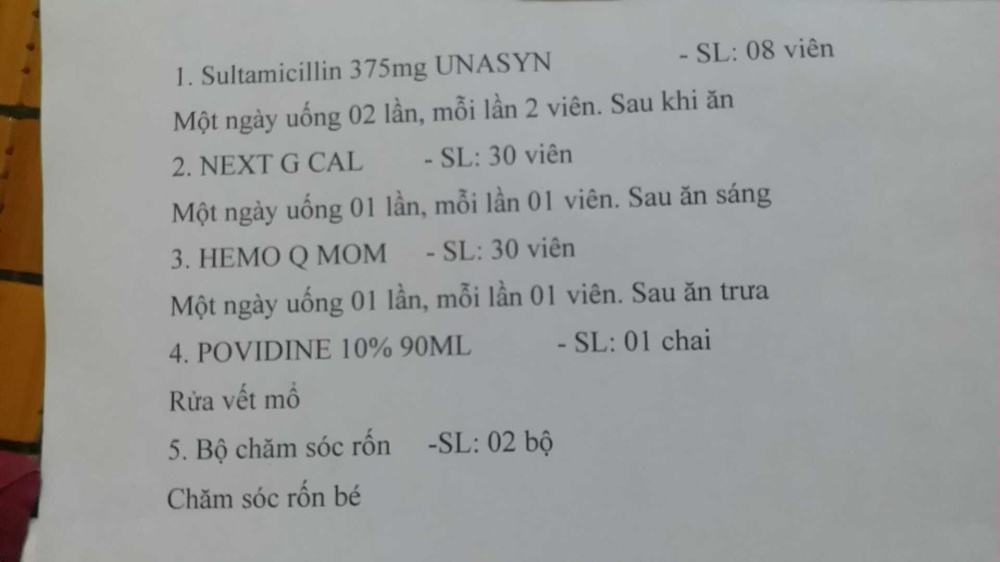
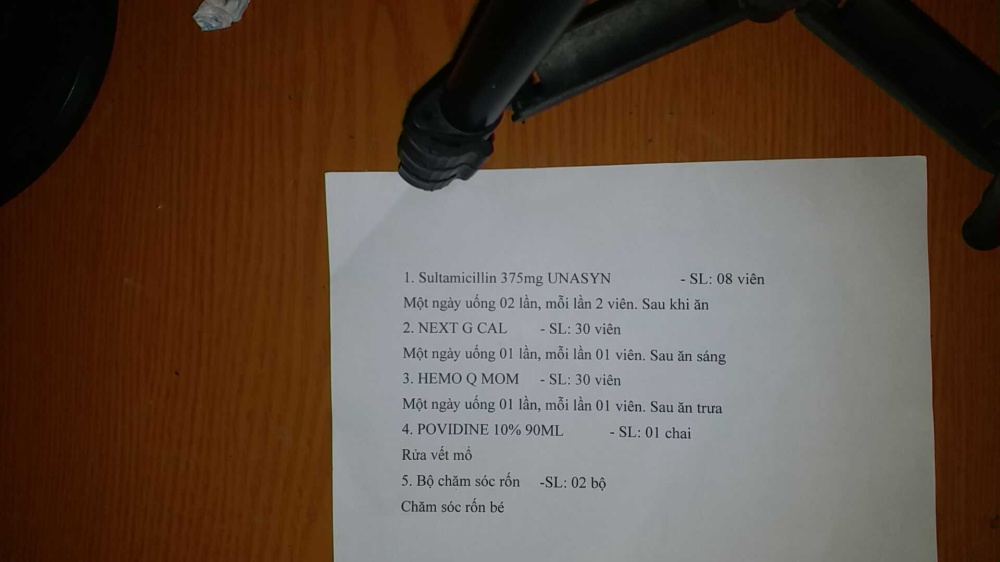
update

diff --git a/ocr.py b/ocr.py
@@ -4,6 +4,10 @@ import pytesseract
 from text_to_speech import *
 from speech_to_text import *
 from similary import *
+import requests
+import cv2
+import numpy as np
+import imutils
 import re 
 
 corr_dict ={
@@ -23,31 +27,56 @@ type_dict = {
     "thuốc đau bụng":["Berberin"],
     "thuốc ho": ["Methorphan", "Prospan"]
 }
-def scan():
-    img = cv2.imread("./test.jpg")
 
-    # img = cv2.resize(img, (640, 360))
-    img = cv2.cvtColor(img, cv2.COLOR_BGR2RGB)
+def scan():
+    url = "http://192.168.1.6:8080/shot.jpg"
+  
+# While loop to continuously fetching data from the Url
+    while True:
+        img_resp = requests.get(url)
+        img_arr = np.array(bytearray(img_resp.content), dtype=np.uint8)
+        img = cv2.imdecode(img_arr, -1)
+        img = imutils.resize(img, width=1000, height=1800)
+        cv2.imshow("Android_cam", img)
+        cv2.imwrite("test.jpg", img)
+        img = cv2.cvtColor(img, cv2.COLOR_BGR2RGB)
     # print(pytesseract.image_to_string(img))
         
-    cong = r'--oem 3 --psm 6 outputbase digits'
-    x = pytesseract.image_to_string(img, config = cong, lang = 'vie')
-    y = x.split("\n")
-    # print(y)
-    # print(corr_dict[y[1]])
-    cv2.imshow("aa", img)
-    cv2.waitKey()
+        cong = r'--oem 3 --psm 6 outputbase digits'
+        x = pytesseract.image_to_string(img, config = cong, lang = 'vie')
+        y = x.split("\n")
+        # Press Esc key to exit
+        if cv2.waitKey(1) == 27:
+            # return y
+            break
+    
+    cv2.destroyAllWindows()
+
+
+    # img = cv2.imread("./test.jpg")
+
+    # # img = cv2.resize(img, (640, 360))
+    # img = cv2.cvtColor(img, cv2.COLOR_BGR2RGB)
+    # # print(pytesseract.image_to_string(img))
+        
+    # cong = r'--oem 3 --psm 6 outputbase digits'
+    # x = pytesseract.image_to_string(img, config = cong, lang = 'vie')
+    # y = x.split("\n")
+    # # print(y)
+    # # print(corr_dict[y[1]])
+    # cv2.imshow("aa", img)
+    # cv2.waitKey()
     return y
 
 
-# text_to_speech("chào mừng bạn đến với cửa hàng chúng tôi")
-# text_to_speech("mời bạn chọn 1, 2 hoặc 3")
-# text_to_speech("1, nhập đơn thuốc thừ bàn phím")
-# text_to_speech("2, đưa đơn thuốc lên camera để scan")
-# text_to_speech("3, mời nói tên loại thuốc muốn mua")
-# print("1-----nhập đơn thuốc từ bàn phím")
-# print("2----- đưa đơn thuốc lên cam để scan")
-# print("3--------mời nói tên loại thuốc muốn mua")
+text_to_speech("chào mừng bạn đến với cửa hàng chúng tôi")
+text_to_speech("mời bạn chọn 1, 2 hoặc 3")
+text_to_speech("1, nhập đơn thuốc thừ bàn phím")
+text_to_speech("2, đưa đơn thuốc lên camera để scan")
+text_to_speech("3, mời nói tên loại thuốc muốn mua")
+print("1-----nhập đơn thuốc từ bàn phím")
+print("2----- đưa đơn thuốc lên cam để scan")
+print("3--------mời nói tên loại thuốc muốn mua")
 a = int(input("mời bạn chọn:"))
 
 arr = []
@@ -64,26 +93,43 @@ if a == 2:
     corr = []
     name = []
     token = scan()
-    # token = token[:-1]
+    token = token[:-1]
     # print(token[0])
     # print(token[1])
-    # for i in token:
-    #     regex = re.search("^\d", i)
-    #     if regex != None:
-    #         # i = i.replace(" ", '')
-    #         name.append(i)
-    # #split data 
-    # name1 = []
-    # name2 = []
+    for i in token:
+        regex = re.search("^\d", i)
+        if regex != None:
+            # i = i.replace(" ", '')
+            name.append(i)
+    #split data 
+    name1 = []
+    name2 = []
+    # print(name)
+    #get name 
+    for i in name:
+        name1.append(i.split("SL")[0])
+        name2.append(i.split("SL")[1])
 
-    # for i in name:
-    #     name1.append(i.split("-")[0])
-    #     name2.append(i.split("-")[1])
+    for i in range(len(name1)):
+        name1[i] = name1[i][:-2]
 
+    tenthuoc=[]
+    soluong=[]
+    
+    for i in name1:
+        tenthuoc.append(i.split(".")[1])
     # for i in name1:
     #     i=i[2:]
         # print(i)
-    print("aa", token)
+    print("aa", tenthuoc)
+
+    #lay so luong thuoc 
+    for i in range (len(name2)):
+        name2[i] = name2[i][1:]
+    print(name1)
+    text_to_speech("bạn mua thành công các loại thuốc sau:")
+    for i in range (len(name1)):
+        text_to_speech("{} {}".format(name2[i], name1[i]))
     # for i in token:
     #     token_i = i.split(":")
     #     name.append(token_i[0])
